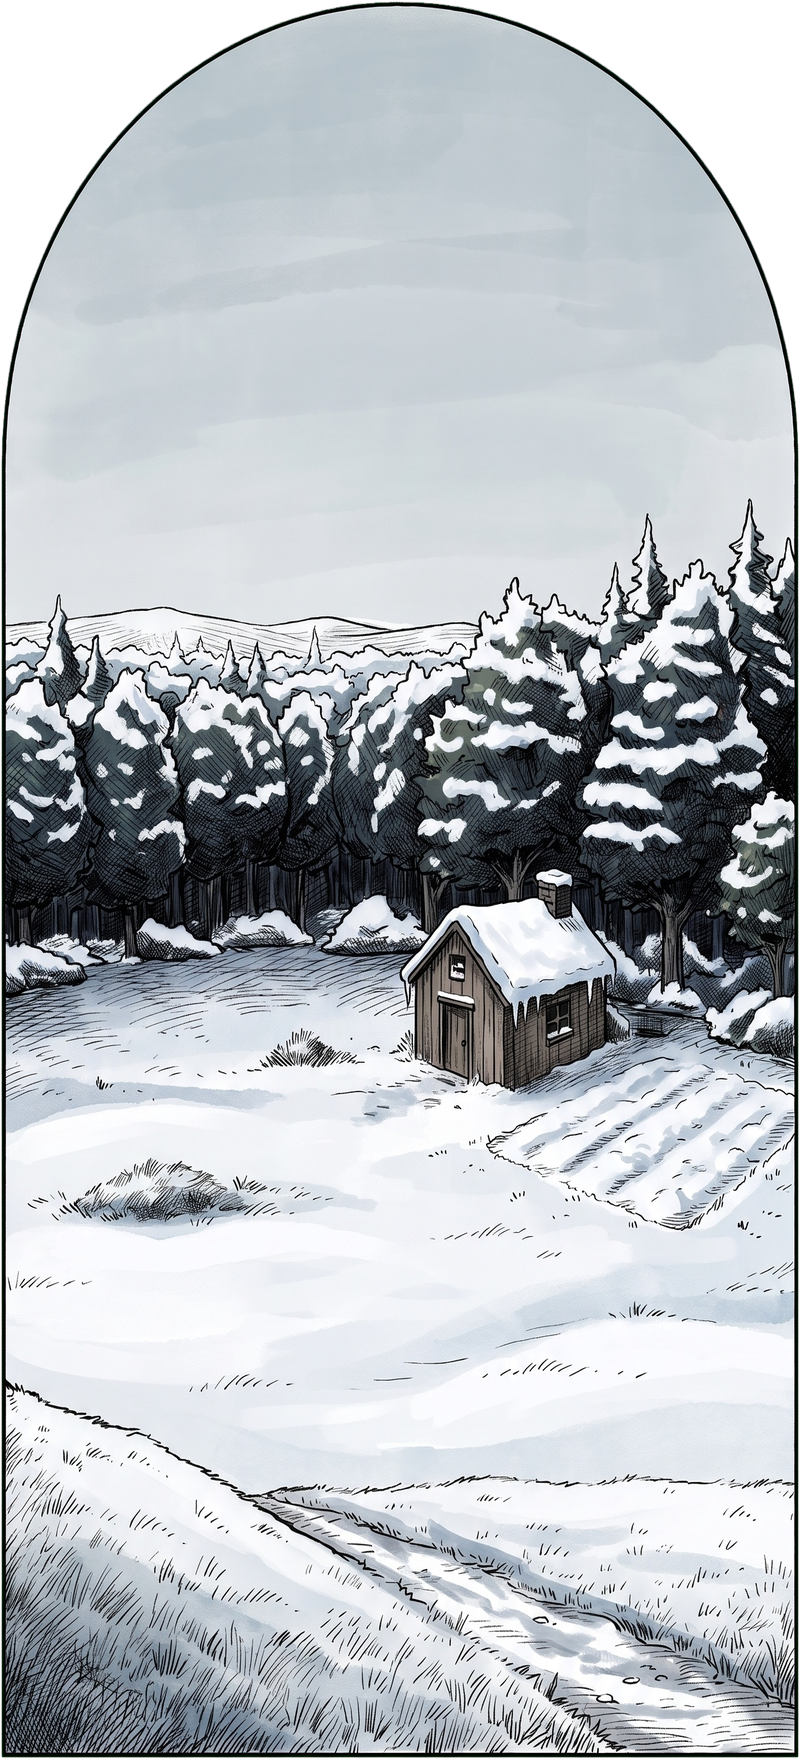
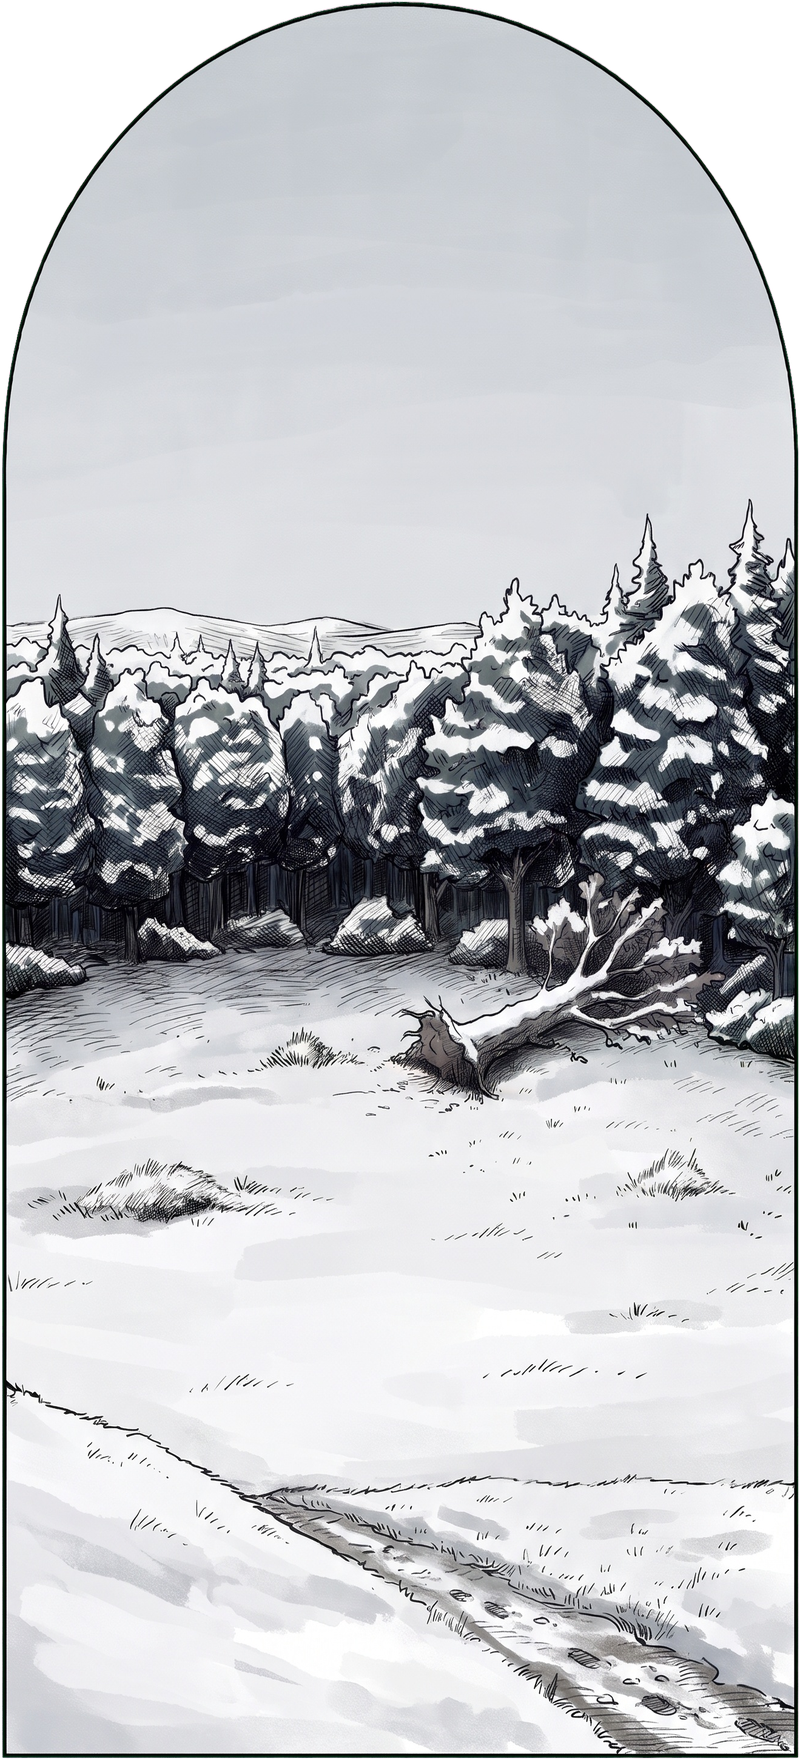
Corridor: the point-and-click seam both ways (req 1880), arrival facing down the corridor (req 1892), grounds view stages; archive 775f9213, 34c6801e

diff --git a/page/corridor.html b/page/corridor.html
@@ -1736,6 +1736,11 @@ windows.forEach(function (w) { w.sky.userData.base = w.sky.material.color.clone(
 var GROUNDS = { w: 1.2, px: 800, py: 1760, ov: [200, 850, 600, 420] };   /* the overlay's box in the drawing: x, y, w, h */
 GROUNDS.h = GROUNDS.w * GROUNDS.py / GROUNDS.px;
 var groundsWin = windows[1], groundsSill = groundsWin.sky.position.y - groundsWin.sky.geometry.parameters.height / 2;
+/* the window's view is an empty forest edge with one fallen oak now (Godric, 30 October 2026, 4.00 pm: "1" on req 1792; Story's
+   settled 189 and req 1416; Magic's req 1262: "drop hagrid and fang. and the cabin"): the hut, its patch, pumpkins, washing,
+   lit window, smoke and chimney, Hagrid's crossing and both sets of prints are gated by this one flag, left in the code for the
+   cabin's eight steps (cabin-and-squid.md), each a later redraw; today's drawings are kept as corridor-grounds-view-hut*.png */
+var CABIN_IN_VIEW = false;
 var grounds = { overlay: null, canvas: null, tex: null, img: null, crossing: null, next: 0, last: -1 };
 (function () {
   var im = new Image();
@@ -1912,8 +1917,7 @@ function makeFrostedGrounds(day) {
   im.onload = function () {
     var W = im.width, H = im.height, cv = makeCanvas(W, H), g = cv.getContext('2d');
     g.drawImage(im, 0, 0);
-    rimeRoof(g, day);
-    bootPrints(g);
+    if (CABIN_IN_VIEW) { rimeRoof(g, day); bootPrints(g); }
     var sky = groundsWin.sky;
     var m = new THREE.Mesh(new THREE.PlaneGeometry(GROUNDS.w, GROUNDS.h),
       new THREE.MeshBasicMaterial({ map: tex(cv), transparent: true, opacity: 0, depthWrite: false }));
@@ -2011,9 +2015,7 @@ function makeSnowyGrounds(day) {
   im.onload = function () {
     var W = im.width, H = im.height, cv = makeCanvas(W, H), g = cv.getContext('2d');
     g.drawImage(im, 0, 0);
-    dayChimney(g, day);
-    bootPrints(g, true);
-    fangPrints(g);
+    if (CABIN_IN_VIEW) { dayChimney(g, day); bootPrints(g, true); fangPrints(g); }
     var sky = groundsWin.sky;
     var m = new THREE.Mesh(new THREE.PlaneGeometry(GROUNDS.w, GROUNDS.h),
       new THREE.MeshBasicMaterial({ map: tex(cv), transparent: true, depthWrite: false }));
@@ -2271,6 +2273,7 @@ function drawGrounds(t) {
   if (!grounds.canvas) return;
   var g = grounds.canvas.getContext('2d'), o = GROUNDS.ov;
   g.clearRect(0, 0, o[2], o[3]);
+  if (!CABIN_IN_VIEW) { grounds.tex.needsUpdate = true; return; }
   g.save(); g.translate(-o[0], -o[1]);
   var r = snowShowing() ? 0 : pumpkinR();   /* under the snow the patch is buried, Fang's hump the only sign */
   if (r) PUMPKINS.forEach(function (pk) { drawPumpkin(g, pk[0], pk[1], r * pk[2]); });
@@ -2302,7 +2305,7 @@ function updateGrounds(dt) {
   var here = atStop && atStop.name === 'window';
   if (here && grounds.last !== atStop) {
     grounds.last = atStop;
-    if (nightK() >= 0.5) grounds.next = 0;
+    if (nightK() >= 0.5 || !CABIN_IN_VIEW) grounds.next = 0;
     else if (groundsQ.has('hagrid') || Math.random() < 0.34) grounds.next = t + 3 + Math.random() * 3; else grounds.next = 0;
   }
   if (!here) grounds.last = -1;
@@ -4377,6 +4380,7 @@ function makeNightView() {
 function drawNightView(cold) {   /* cold: a frosty morning, the smoke only (Godric's touch on Q26) */
   var g = NIGHT.canvas.getContext('2d'), b = NIGHT.BOX;
   g.clearRect(0, 0, b[2], b[3]);
+  if (!CABIN_IN_VIEW) { NIGHT.tex.needsUpdate = true; return; }
   if (!cold && !hagridHome()) { NIGHT.tex.needsUpdate = true; return; }
   var L = cold ? 1 : hutK(), since = cold ? 1e9 : t - HUT.on;
   if (!L) { NIGHT.tex.needsUpdate = true; return; }
@@ -4807,9 +4811,13 @@ function goBack() {
    for shots. Coming out of the room
    (?from=room) he arrives at her stop as she shuts; Back goes to the stair head as from any stop. */
 var leaving = false, herOpening = false;
+/* ?stills (the point-and-click seam, board req 1880): the hole leads to the common room's staged stills (seam-test.html,
+   which holds the Common room's point-click-test.html unedited), and ?from=still brings him back out standing at her
+   stop, turned to face down the corridor */
+var STILLS = /[?&]stills\b/.test(location.search);
 function enter(dry, url, room) {
   if (leaving || view !== 'length') return false;
-  url = url || 'common-room.html?from=corridor'; room = room || 'common-room';
+  url = url || (STILLS ? 'seam-test.html?from=corridor' : 'common-room.html?from=corridor'); room = room || 'common-room';
   leaving = true;
   var herStop = STOPS[0];
   function swingAndWalk() {
@@ -4838,11 +4846,24 @@ function enter(dry, url, room) {
   } else swingAndWalk();
   return true;
 }
+function arriveFromStill() {
+  var herStop = STOPS[0], p = herStop.stop();
+  atStop = herStop; mode = 'stop'; backBtn.hidden = false;
+  var out = p.look.clone().sub(p.pos); out.x = -out.x; out.y = 0;
+  camera.position.copy(p.pos); lookTmp.copy(p.pos).add(out); setFov(p.fov);
+  stopPose = { pos: p.pos.clone(), look: lookTmp.clone() }; headReset();
+  herDoor.ang = DOOR_OPEN; herDoor.target = DOOR_OPEN;
+  setTimeout(function () { herDoor.target = 0; }, 700);
+  kit.savePlace({ room: 'corridor', stop: 'her' });
+  kit.reveal();
+}
 function arriveFromRoom() {
   var herStop = STOPS[0], p = herStop.stop();
   atStop = herStop; mode = 'stop'; backBtn.hidden = false;
-  camera.position.copy(p.pos); lookTmp.copy(p.look); setFov(p.fov);
-  stopPose = { pos: p.pos.clone(), look: p.look.clone() }; headReset();
+  /* a step out of her hole, turned to walk on down the corridor, not back at her (req 1892, Godric 30 October 2026) */
+  var out = p.look.clone().sub(p.pos); out.x = -out.x; out.y = 0;
+  camera.position.copy(p.pos); lookTmp.copy(p.pos).add(out); setFov(p.fov);
+  stopPose = { pos: p.pos.clone(), look: lookTmp.clone() }; headReset();
   herDoor.ang = DOOR_OPEN; herDoor.target = DOOR_OPEN;
   setTimeout(function () { herDoor.target = 0; }, 700);
   kit.savePlace({ room: 'corridor', stop: 'her' });
@@ -5147,7 +5168,8 @@ function arriveFromStore() {
 /* HUD: Layers, Res, Exp and ? are the shared frame's; View and Reset are this page's (onAct, above) */
 backBtn.addEventListener('click', goBack);
 setView(view);
-if (kit.from === 'room') arriveFromRoom();
+if (kit.from === 'still') arriveFromStill();
+else if (kit.from === 'room') arriveFromRoom();
 else if (kit.from === 'stair-hall') arriveFromBay();
 else if (kit.from === 'secret-s4b') arriveFromStore();
 

diff --git a/page/seam-test.html b/page/seam-test.html
@@ -1,0 +1,39 @@
+<!DOCTYPE html>
+<html lang="en">
+<head>
+<meta charset="utf-8">
+<meta name="viewport" content="width=device-width, initial-scale=1, viewport-fit=cover">
+<title>The seam</title>
+<style>
+html, body { margin: 0; height: 100%; background: #000; overflow: hidden; }
+iframe { position: fixed; inset: 0; width: 100%; height: 100%; border: 0; background: #000; }
+#veil { position: fixed; inset: 0; background: #000; opacity: 1; pointer-events: none; z-index: 5; transition: opacity .7s ease-out; }
+</style>
+</head>
+<body>
+<iframe id="still" src="point-click-test.html" title="The common room, as stills"></iframe>
+<div id="veil"></div>
+<script>
+/* The point-and-click seam (board req 1880): the corridor walk's hole opens on the common room's staged stills, and the
+   still's portrait hole leads back out to the walk. point-click-test.html is the Common room lane's and is held here
+   unedited, in a frame; this page only dresses the step (the dark the walk uses between rooms) and reads when the still
+   shows its stub for the corridor, then sends him to corridor.html?from=still&stills, standing at the Fat Lady,
+   turned to face down the corridor. Until that lane's page leads out by itself this wrapper is the hand-off. */
+var veil = document.getElementById('veil'), fr = document.getElementById('still'), going = false;
+function lift() { requestAnimationFrame(function () { requestAnimationFrame(function () { veil.style.opacity = '0'; }); }); }
+fr.addEventListener('load', function () {
+  lift();
+  var d; try { d = fr.contentDocument; } catch (e) { return; }
+  var stub = d.getElementById('stub'), text = d.getElementById('stubtext');
+  if (!stub || !text) return;
+  new MutationObserver(function () {
+    if (going || !stub.classList.contains('on') || !/corridor/i.test(text.textContent)) return;
+    going = true;
+    veil.style.transition = 'opacity .45s ease-in'; veil.style.opacity = '1';
+    setTimeout(function () { location.href = 'corridor.html?from=still&stills=1'; }, 500);
+  }).observe(stub, { attributes: true, attributeFilter: ['class'] });
+});
+setTimeout(lift, 2500);
+</script>
+</body>
+</html>
